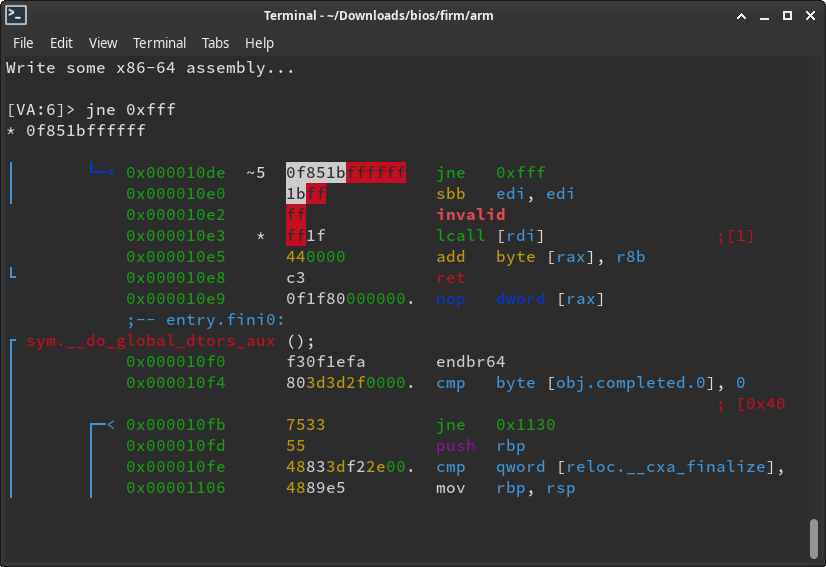
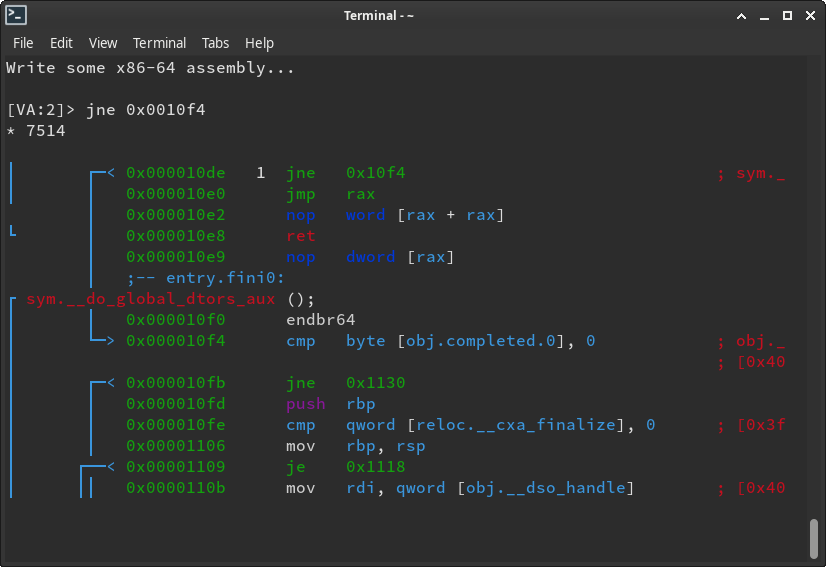
Update the images so that the changes are clear visually

diff --git a/src/visual_mode/visual_assembler.md b/src/visual_mode/visual_assembler.md
@@ -6,11 +6,13 @@ To assemble, seek to the location you want to patch and press `A`.
 
 ![Before](../pics/before.png)
 
-Notice the preview of the disassembly and arrows:
+Notice the preview of the disassembly and arrows. After assembling the instruction,
+you can see that the branch reference lines have been changed, and it is now pointing to 
+the offset of the newly assembled `jne` instruction:
 
 ![After](../pics/after.png)
 
 You need to open the file in writing mode (`rizin -w` or `oo+`) in order to patch the file.
 You can also use the cache mode: `e io.cache=true` and `wc?`.
 
-Remember that patching files in debug mode only patch the memory not the file.
+Remember that patching files in debug mode only patches the memory, not the file.
